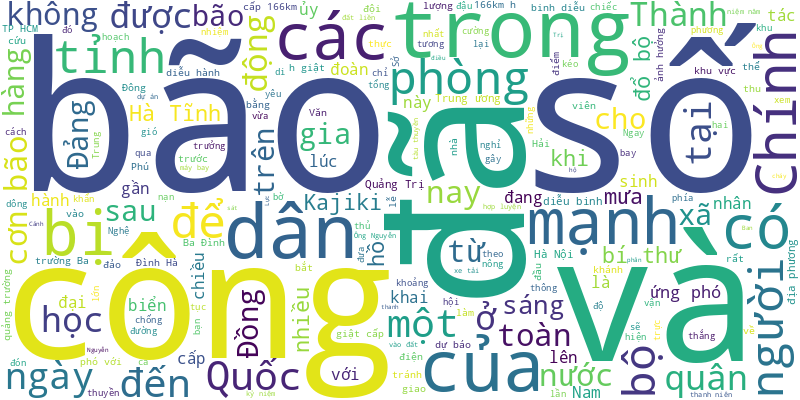
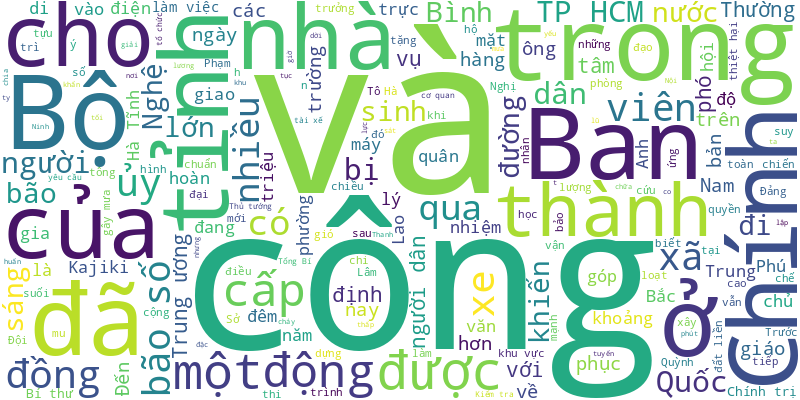
🍀 = 90%

diff --git a/README.md b/README.md
@@ -1,6 +1,16 @@
 # Tuoi Tre RSS 
 
 ## Giáo dục 
+- Nhiều trường học tại Hà Nội đã thông báo cho học sinh ngừng đến trường, sinh viên chuyển sang học trực tuyến.
+- Những ngày đầu của nước Việt Nam độc lập 80 năm trước, giữa bộn bề khó khăn, Chủ tịch Hồ Chí Minh và Chính phủ đã nhìn ra đường dài cho dân tộc cần làm ngay: diệt giặc dốt.
+- Nhiều bạn đọc tiếp tục tranh luận và đề xuất các giải pháp cho chuyện '29 điểm vẫn rớt đại học mong muốn'.
+- Mặc dù cả nước chỉ có 9 thủ khoa đạt điểm tuyệt đối 30/30, nhiều trường đại học lại ghi nhận số thí sinh có điểm xét tuyển 30 nhiều như 'mưa', lý do là... điểm cộng, điểm thưởng.
+- Phụ huynh ở Đắk Lắk than phiền trường tiểu học đổi đồng phục mỗi năm, nhiều màu trong tuần, vừa tốn kém vừa thiếu bản sắc.
+- Theo phản ánh của thí sinh, Trường đại học Ngân hàng TP.HCM thay đổi điều kiện xét tuyển khiến thí sinh dư điểm chuẩn vẫn rớt.
+- Trong 5 năm qua, ngành giáo dục Đắk Lắk ghi nhận có hơn 6.200 sáng kiến với hơn 1.000 giáo viên là giáo viên dạy giỏi, điển hình tiên tiến.
+- Mùa tuyển sinh đại học năm nay, hàng loạt ngành học ghi nhận mức điểm chuẩn chạm ngưỡng 29, 30 - thậm chí vượt cả 30 điểm nếu tính thêm điểm ưu tiên.
+- Sáng 25-8, nhiều trường phổ thông ở TP.HCM đã tổ chức lễ đón học sinh tựu trường, chuẩn bị cho năm học mới 2025-2026.
+- Sáng nay 25-8, học sinh các khối lớp 2, 3, 4, 5, 6, 7, 8, 10, 11 ở TP.HCM tựu trường, chuẩn bị bước vào năm học mới 2025 - 2026 (các khối 1, 9, 12 đã tựu trường trước đó).
 - Việc cộng điểm khuyến khích, quy đổi điểm được đa số trường đại học áp dụng dẫn đến tình trạng điểm thi thấp nhưng điểm chuẩn vẫn tăng vù vù, xô đổ các kỷ lục điểm chuẩn trước đó.
 - Ngày 24-8, gần 100 thí sinh nhí đã hào hứng góp mặt trong vòng casting Đầu Bếp Nhí đợt 2.
 - Tin tức đáng chú ý: Vì sao điểm chuẩn tuyển sinh các ngành y dược, sư phạm lại biến động mạnh?; Bác sĩ cảnh báo vi rút RSV gây bệnh đường hô hấp nguy hiểm ở trẻ nhỏ; Trước 1-1-2026, hoàn thành tổ chức một số đơn vị thuộc Bộ Nông nghiệp và Môi trường.
@@ -41,70 +51,61 @@
 - Điểm chuẩn 2025 của Học viện Bưu chính viễn thông cao nhất là 26,21 với ngành khoa học máy tính.
 - Các trường cao đẳng 'hot' như Cao đẳng Kỹ thuật Cao Thắng, Cao đẳng Kinh tế đối ngoại, Cao đẳng Kinh tế TP.HCM... đã công bố điểm chuẩn trúng tuyển xét theo điểm thi tốt nghiệp THPT.
 - Nhiều ngành của Trường đại học Khoa học tự nhiên (Đại học Quốc gia TP.HCM) lấy điểm chuẩn trên 24, riêng ngành khoa học máy tính lấy gần 30 điểm.
-- Ngành Trung Quốc học tiếp tục dẫn đầu điểm chuẩn Học viện Ngoại giao năm 2025, nhưng đã giảm 3,11 điểm so với năm ngoái ở phương thức xét điểm thi tốt nghiệp THPT.
-- Năm nay các ngành thuộc khối quân đội và sư phạm tiếp tục ghi nhận điểm chuẩn cao kỷ lục, có ngành lấy điểm tuyệt đối 30/30 và phải đặt nguyện vọng 1 mới trúng tuyển.
-- Hai trường đại học 'có tiếng' ở TP.HCM lấy điểm chuẩn với ít nhiều thay đổi so với năm trước đó.
-- Nếu không có điểm ưu tiên, thí sinh cần phải đạt hơn 9,5 điểm mỗi môn mới trúng tuyển ngành báo chí Trường ĐH Khoa học xã hội và Nhân văn - Đại học Quốc gia TP.HCM.
-- Ngày 22-8, Trường đại học Ngân hàng TP.HCM công bố điểm chuẩn trúng tuyển đại học chính quy năm 2025 (xét kết quả thi tốt nghiệp THPT).
-- Năm nay, điểm chuẩn trúng tuyển Trường đại học Y Hà Nội từ dao động 17 - 28,7 điểm, ngành tâm lý học tiếp tục dẫn đầu ở tổ hợp C00 (văn, sử, địa).
-- Trường đại học Sư phạm kỹ thuật TP.HCM vừa công bố điểm chuẩn tuyển sinh đại học chính quy năm 2025.
-- Ngành tâm lý học dẫn đầu điểm chuẩn Trường đại học Khoa học xã hội và Nhân văn (Đại học Quốc gia Hà Nội) với 29 điểm, vượt điểm chuẩn ngành quan hệ công chúng và báo chí so với năm ngoái.
-- Trường đại học Luật Hà Nội dùng tổ hợp D01 (toán, văn, tiếng Anh) làm tổ hợp gốc quy đổi, mức điểm chuẩn từ 19,75 đến 25,55.
-- Đa số ngành 'hot' Trường đại học Bách khoa - Đại học Quốc gia TP.HCM có điểm chuẩn tăng, trái với dự đoán giảm trước đó.
 ![Edu](Edu.png)
 ## Thời Sự 
-- Lúc 9h sáng nay, tâm bão số 5 (bão Kajiki) đang cách Nghệ An khoảng 140km về phía đông đông nam, cách Hà Tĩnh khoảng 120km về phía đông. Sức gió mạnh nhất vùng gần tâm bão mạnh cấp 13-14 (134-166km/h), giật cấp 16.
-- Ông Nguyễn Thanh Nghị - ủy viên Trung ương Đảng, phó bí thư thường trực Thành ủy TP.HCM - được Bộ Chính trị điều động, phân công, bổ nhiệm làm Trưởng Ban Chính sách, chiến lược Trung ương.
-- Lực lượng Cảnh sát phòng cháy chữa cháy và cứu nạn, cứu hộ Công an tỉnh Đắk Lắk đã xuyên đêm giải cứu tài xế mắc kẹt trong cabin sau vụ tai nạn giữa xe tải và xe đầu kéo trên quốc lộ 1.
-- Người đàn ông chạy xe ba gác chở theo chiếc ô tô cũ cồng kềnh bị người dân phản ánh trên mạng xã hội đã bị xử phạt.
-- Trong lúc chằng mái nhà phòng chống bão số 5, một gia đình không may bị điện giật làm một người chết, hai người bị thương.
-- Ông Trần Lưu Quang - Bí thư Trung ương Đảng, Trưởng Ban Chính sách, chiến lược Trung ương - làm Bí thư Thành ủy TP.HCM nhiệm kỳ 2020 - 2025.
-- Ông Nguyễn Văn Nên - ủy viên Bộ Chính trị - được phân công theo dõi, chỉ đạo Đảng bộ TP.HCM cho đến Đại hội XIV của Đảng.
-- Cục Hàng không Việt Nam quyết định tạm dừng khai thác sân bay Thọ Xuân và Đồng Hới trong ngày 25-8 để tránh bão số 5.
-- Lúc 7h sáng nay, tâm bão số 5 (bão Kajiki) đang cách Nghệ An khoảng 160km về phía Đông Đông Nam, cách Hà Tĩnh khoảng 145km về phía Đông. Sức gió mạnh nhất vùng gần tâm bão mạnh cấp 14 (150-166km/h), giật cấp 17.
-- Hôm nay 25-8, dự báo bão số 5 đổ bộ vào đất liền nước ta gây mưa to đến rất to, với thời tiết này cần đề phòng lũ, sạt lở và dông gió dữ dội.
-- Theo thông tin từ Bộ Ngoại giao, nhân kỷ niệm 80 năm thành lập ngành ngoại giao (28-8-1945 - 28-8-2025), Tổng Bí thư Tô Lâm đã có thư chúc mừng.
-- Buổi tổng hợp luyện diễu binh, diễu hành lần 2 cho lễ kỷ niệm 80 năm Quốc khánh 2-9 diễn ra ngày 24-8, tại quảng trường Ba Đình (Hà Nội).
-- Khi bão số 5 đổ bộ, khu vực Nghệ An - bắc Hà Tĩnh khả năng chịu tác động của gió bão mạnh nhất cấp 12-14 (118-166km/h), giật cấp 15-16.
-- Tính đến 17h30 chiều nay 24-8, toàn tỉnh Hà Tĩnh đã sơ tán 3.972 hộ dân với gần 10.000 nhân khẩu đến các địa điểm an toàn để chủ động ứng phó với bão số 5.
-- Đến 19h tối nay, cường độ bão số 5 (Kajiki) đã mạnh lên cấp 14 (150-166km/h), giật cấp 17 và khả năng tiếp tục mạnh lên.
-- Chiều 24-8, gần 400 quân và dân trên đảo Cồn Cỏ (Quảng Trị) đã được di tản vào các hầm trú ẩn an toàn để ứng phó với bão số 5.
-- Chiều 24-8, ông Nguyễn Hoàng Hiệp - thứ trưởng Bộ Nông nghiệp và Môi trường - cùng đoàn công tác của trung ương đã kiểm tra thực tế công tác ứng phó với bão số 5 tại tỉnh Thanh Hóa.
-- Cơn bão số 5 (bão Kajiki) được dự báo là cơn bão mạnh với cấp độ rủi ro thiên tai cấp 4 - mức rất lớn, dự kiến đổ bộ vào đất liền nước ta khoảng trưa, chiều 25-8.
-- Gần 10 điểm mỗi môn vẫn rớt đại học mong muốn; Nút giao An Phú nguy cơ chậm 12 tháng... là những vấn đề thu hút nhiều bạn đọc phản hồi tuần qua.
-- Để học sinh và giáo viên được an toàn trong bão số 5, tỉnh Quảng Trị đã có công văn cho toàn bộ học sinh, học viên nghỉ học từ ngày 25-8.
-- Trong 21 dự án đón APEC 2027 ở Phú Quốc thì có 2 dự án triển khai chậm lại vì liên quan đến quy hoạch là dự án hồ nước Dương Đông 2 và nhà máy xử lý nước hồ này. Sở ngành trong tỉnh đã khẩn trương lập đoàn khảo sát lại vị trí mới làm hồ nước.
-- Du khách lặn biển ở khu vực Hòn Bạc, thuộc vịnh Nha Phu (Khánh Hòa) thấy cảnh tượng cá chết hàng loạt, san hô gãy đổ.
-- Gần 20h30, dàn pháo lễ tại sân vận động quốc gia Mỹ Đình (Hà Nội) đã khai hỏa, bắt đầu buổi tổng hợp luyện lần thứ 2 của các lực lượng vũ trang, quân đội, công an... cho lễ diễu binh, diễu hành mừng đại lễ tại quảng trường Ba Đình.
-- Ngay trước bão số 5, hai người dân tại Quảng Trị chèo thuyền đi đánh cá ở hồ Bàu Sen thì bị chìm thuyền. Một người bơi được vào bờ, người còn lại đã tử vong.
-- Thủ tướng Phạm Minh Chính vừa ký công điện số 144 về việc bảo đảm cắt giảm, đơn giản hóa thủ tục hành chính, điều kiện kinh doanh và thực hiện thủ tục hành chính thông suốt, hiệu quả trong triển khai chính quyền địa phương 2 cấp.
-- Công an xã An Thành (Hải Phòng) đã phát đi thông báo tìm thân nhân của trẻ sơ sinh bị bỏ rơi tại chùa Diên Khánh trên địa bàn.
-- Bão số 5 là một cơn bão rất mạnh, cường độ bão khi ảnh hưởng có thể tương đương với cơn bão số 3 Yagi năm 2024 và mạnh hơn bão số 10 (Doksuri) năm 2017.
-- Thành phố Hải Phòng đã cấm các phương tiện tàu du lịch, tàu, thuyền khai thác thủy sản ra khơi từ 13h ngày 24-8 để phòng chống bão số 5. Trong khi đó, Hà Tĩnh đã đặt Sở Chỉ huy chống bão.
-- Trước diễn biến phức tạp của cơn bão số 5, từ sáng đến trưa 24-8 lượng lượng công an, bộ đội biên phòng, dân quân địa phương đã giúp ngư dân phường Sầm Sơn đưa hàng trăm chiếc thuyền nhỏ lên đường Hồ Xuân Hương tránh trú bão.
-- Trong thời gian ảnh hưởng bởi mưa bão số 5, 67.000 học sinh tại Hà Tĩnh sẽ nghỉ học để đảm bảo an toàn.
-- Sau cơn mưa chiều 24-8, tại khu vực giao cắt đường Chu Văn An - Nguyễn Thái Học - Tôn Đức Thắng, người dân cùng hòa ca bài Nối vòng tay lớn, Như có Bác Hồ trong ngày vui đại thắng, Tiến quân ca… trong lúc chờ đoàn diễu binh.
-- Nhạc sĩ Nguyễn Văn Chung chia sẻ việc thể hiện lòng yêu nước không chỉ bằng đón xem, hưởng ứng các concert quốc gia hay xem diễu binh, diễu hành mà hãy thể hiện bằng chính hành động thiết thực của mình trong tương lai.
-- Bộ Quốc phòng vừa có công điện yêu cầu các đơn vị toàn quân tập trung ứng phó khẩn cấp bão số 5.
-- Lần đầu tiên một bí thư xã ở Đắk Lắk livestream bán sầu riêng cho nông dân và đã thu hút được khá nhiều tương tác.
-- Ứng phó khẩn cấp với bão số 5, nhiều tỉnh, thành của miền Trung đã cấm biển. Trong khi đó, trên những cánh đồng lúa lúc này, nhiều bà con nông dân đang chạy đua thu hoạch để tránh cơn bão được dự đoán rất mạnh này.
-- Dải mây dông trước bão số 5 (Kajiki) bắt đầu vào đất liền, gây mưa dông ở các tỉnh Bắc Ninh, Hưng Yên, Hải Phòng và đang di chuyển và mở rộng sang khu vực thành phố Hà Nội.
-- Ngay từ sáng sớm nay, hàng ngàn người đã xếp hàng, đội nắng, cắm chốt, chọn chỗ đẹp để xem hợp luyện diễu binh, diễu hành kỷ niệm 80 năm Cách mạng tháng Tám và Quốc khánh 2-9.
-- Sáng 24-8, 10 chiếc trực thăng Mi thuộc các Trung đoàn Không quân 916, 917, 930 (Quân chủng Phòng không - Không quân) đã kéo cờ Tổ quốc, cờ Đảng bay qua quảng trường Ba Đình, Hà Nội.
-- Công an xã Phú Lâm, tỉnh Đồng Nai vừa giải cứu một thanh niên bị nhóm lừa đảo gọi điện đe dọa, ‘bắt cóc online’, đòi gia đình nạn nhân chuyển tiền.
-- Chủ tịch nước Lương Cường khẳng định mỗi thắng lợi của dân tộc đều bắt nguồn từ sức mạnh đại đoàn kết, đồng lòng, cống hiến không ngừng nghỉ của các tầng lớp nhân dân dưới sự lãnh đạo của Đảng.
-- Để tránh bờ biển bị sạt lở trước dự báo bão số 5 đổ bộ, chính quyền xã Đan Hải (Hà Tĩnh) đã huy động hàng trăm người tiến hành gia cố bờ biển bằng rọ đá, bao tải cát.
-- Kiểm tra thực tế khu neo đậu tàu thuyền ở xã Nam Cửa Việt, bí thư Tỉnh ủy Quảng Trị yêu cầu địa phương phối hợp chặt chẽ trong công tác ứng phó với bão số 5, sẵn sàng di dời dân, giúp dân thu hoạch mùa vụ ngay sau bão...
-- Dùng Facebook của bạn gái đăng hình và nội dung nói xấu vợ cũ và gia đình vợ, một công dân ở Đồng Nai bị phạt 7,5 triệu đồng.
-- Bạn đọc cho rằng có quá nhiều phương thức tuyển sinh gây mất công bằng, đẩy điểm chuẩn phương thức xét điểm thi tốt nghiệp THPT lên cao chót vót.
-- Do ảnh hưởng bão số 5 (Kajiki), vùng biển An Thới, đặc khu Phú Quốc tỉnh An Giang có gió thổi mạnh, sóng lớn. Các tour ca nô tham quan đảo trong đảo tạm ngưng đón khách ngày 24-8.
-- Hai ngày nay ngư dân Hà Tĩnh và các địa phương lân cận đang gấp rút đưa tàu thuyền vào các khu neo đậu của địa phương để chằng buộc cẩn thận, nhằm giảm thiểu rủi ro khi bão số 5 đổ bộ.
-- Tuần này do ảnh hưởng bão số 5 nên hầu như khắp nơi đều có mưa, sau khi bão tan mưa vẫn duy trì thêm nhiều ngày.
-- Trong lúc đến nhà vận động, sau đó khống chế đưa về trụ sở một nam thanh niên ở Hội An có hành vi chửi bới, đập phá tại nhà riêng, cán bộ công an bị nam thanh niên dùng kéo tấn công bị thương.
-- Sáng 24-8, xe tải thủng bánh đang đậu trên đường Đỗ Mười (phường Tam Bình, TP.HCM) bất ngờ bị xe tải khác tông từ phía sau, lật ngang.
-- Dự báo ngày và đêm nay, bão số 5 (Kajiki) có thể mạnh lên cấp 13-14 (134-166km/h), giật cấp 16. Đây sẽ là một trong những cơn bão mạnh, nguy hiểm nhất sẽ đổ bộ vào Nghệ An đến bắc Quảng Trị.
+- Do ảnh hưởng của bão Kajiki, đêm qua đến sáng nay 26-8, Hà Nội có mưa vừa, mưa to, có nơi mưa rất to khiến nhiều tuyến đường ngập sâu.
+- Đêm 25-8, lực lượng Phòng cảnh sát phòng cháy, chữa cháy và cứu nạn, cứu hộ Công an tỉnh Thanh Hóa đã giải cứu 3 người trong một gia đình sinh sống cạnh suối Chuỗi, xã Sao Vàng bị nước lũ cô lập trong nhà.
+- Trận lốc xoáy trong vòng 2 phút ở Hà Nam cũ (nay là Ninh Bình) tối qua khiến hơn 200 nhà dân bị thiệt hại, trong đó có nhà dân bị đổ sập khiến một người tử vong.
+- Trước nguy cơ bị nước lũ dâng cao chia cắt, chính quyền xã Mường Típ, Nghệ An đã huy động lực lượng di dời khẩn cấp 85 người dân tới nơi an toàn ngay trong đêm.
+- Tin tức đáng chú ý: Thế Giới Di Động chi 200 tỉ đồng mua trọn lô trái phiếu một công ty chứng khoán; Đề xuất tăng 100% lương tập huấn, thi đấu cho huấn luyện viên, vận động viên...
+- Sau khoảng 12 giờ đi vào đất liền Nghệ An - Hà Tĩnh, sáng sớm 26-8, bão số 5 (Kajiki) suy yếu thành áp thấp nhiệt đới và tiếp tục gây mưa lớn cho khu vực Bắc Trung Bộ, Bắc Bộ hôm nay.
+- Dù đã suy yếu nhưng hoàn lưu bão số 5 vẫn gây mưa to cho thời tiết nước ta, đặc biệt là các tỉnh thành phía Bắc.
+- Lốc xoáy lớn đêm 25-8 kéo dài 2 phút, gây thiệt hại nặng cho hàng trăm hộ dân ở phường Lý Thường Kiệt, Kim Bảng, Ninh Bình.
+- Nhiều lãnh đạo cấp sở của tỉnh Lâm Đồng có đơn đề xuất xin thôi việc theo Nghị định 178.
+- Chiều 25-8, Thủ tướng Phạm Minh Chính gặp mặt, tri ân Ban Liên lạc công an chi viện chiến trường miền Nam.
+- Tối 25-8, Bộ Quốc phòng duy trì 346.210 quân, 8.200 phương tiện, gồm 5 máy bay, sẵn sàng ứng phó và khắc phục bão số 5.
+- Trung tâm Quản lý giao thông công cộng TP.HCM thông báo khôi phục, điều chỉnh nhiều tuyến xe buýt phục vụ học sinh, sinh viên.
+- Ngày 25-8, tài xế taxi lạng lách, ép xe tại chân cầu Bình Triệu (phường Hiệp Bình, TP.HCM) bị CSGT mời làm việc và lập biên bản.
+- Đến 0h sáng 26-8, tâm bão số 5 vẫn trên đất liền phía tây khu vực nam Nghệ An - bắc Hà Tĩnh.
+- Ông Lê Văn Thành, ủy viên Ủy ban Kiểm tra Trung ương, được Bộ Chính trị chuẩn y chức danh phó chủ nhiệm Ủy ban Kiểm tra Trung ương.
+- Chủ tịch nước chủ trì làm việc giữa Bộ Chính trị và Ban Thường vụ Tỉnh ủy Điện Biên, Gia Lai góp ý văn kiện, nhân sự đại hội đảng bộ.
+- Trước khi bàn giao cho Đội Công binh 4, Đội Công binh 3 Việt Nam hoàn thành kiểm tra COE của UNISFA, khẳng định chuyên nghiệp và trách nhiệm quốc tế.
+- Tổng Bí thư chủ trì làm việc giữa Bộ Chính trị và Quân ủy Trung ương, góp ý dự thảo văn kiện, nhân sự Đại hội Đảng bộ Quân đội.
+- Đến chiều 25-8, số tiền nhà hảo tâm đóng góp trực tiếp cho ông Ba M., người cưu mang 'vợ nhặt,' khoảng 100 triệu đồng.
+- Thường trực Ban Bí thư Trần Cẩm Tú đã trao quyết định của Bộ Chính trị về điều động, phân công, bổ nhiệm ông Nguyễn Thanh Nghị làm trưởng Ban Chính sách, Chiến lược Trung ương.
+- Thành phố Huế đã hoàn thành mục tiêu xóa nhà tạm, nhà dột nát trên địa bàn với hàng ngàn ngôi nhà được xây mới và sửa chữa.
+- Gác chắn đường ngang đã hạ, đèn đỏ sáng, tín hiệu chuông reo lớn nhưng hai người đi xe máy vẫn chạy tốc độ cao, hất tung dàn chắn ngã xuống đường ray.
+- Trong quá trình đi hỗ trợ bà con chống bão, cán bộ Công an phường Vũng Áng, Hà Tĩnh nhận được yêu cầu giúp đỡ sản phụ đi sinh.
+- Đoạn clip một nhóm cán bộ xã Nhôn Mai, tỉnh Nghệ An lội qua suối chảy cuồn cuộn đưa lần lượt hơn 120 người dân ở bản Phá Mựt vượt suối di dời đến nơi an toàn khiến cộng đồng mạng xúc động và cảm phục.
+- Khi vào gần bờ, bão số 5 (Kajiki) gặp ma sát với địa hình khiến cường độ bão suy giảm hai cấp, từ cấp 14 (150-166km/h) xuống cấp 12 (118-133km/h).
+- Công an tỉnh Đồng Tháp cho biết đang điều tra nguyên nhân cái chết của người đàn ông nằm úp mặt dưới kênh nước công cộng.
+- Ngày 25-8, Bộ Nội vụ tổ chức hội thảo quốc gia chuẩn bị cho Diễn đàn Lao động di cư ASEAN (AFML) lần thứ 18.
+- Đến nay đặc khu Phú Quốc đã dựng hàng rào tôn, san ủi mặt bằng được hơn 161ha để làm đường băng số 2 và công trình phụ trợ mở rộng sân bay Phú Quốc đón APEC 2027.
+- Trong 5 năm qua, ngành giáo dục Đắk Lắk ghi nhận có hơn 6.200 sáng kiến với hơn 1.000 giáo viên là giáo viên dạy giỏi, điển hình tiên tiến.
+- Ban Tổ chức Trung ương đã có định hướng về số lượng cấp phó của cơ quan, tổ chức Trung ương, HĐND, UBND tỉnh, thành.
+- Ban Chỉ đạo của Chính phủ yêu cầu xử lý nghiêm các trường hợp, hành vi trục lợi, vi phạm trong xem xét, giải quyết chính sách, chế độ theo nghị định 178.
+- Ảnh hưởng bởi cơn bão số 5 (Kajiki) gây mưa lớn, gió mạnh ở tỉnh Đắk Lắk những ngày qua khiến nhiều nông dân trồng sầu riêng thấp thỏm lo thiệt hại trong mùa thu hoạch chính vụ.
+- Phát biểu tại lễ kỷ niệm ngày 25-8, Tổng Bí thư Tô Lâm khẳng định sau 80 năm, Ngoại giao Việt Nam đã đạt được nhiều thành tựu, góp phần viết nên bản anh hùng ca vĩ đại của dân tộc.
+- Sở Nông nghiệp và Môi trường TP.HCM vừa có văn bản gửi Sở Tài chính góp ý hồ sơ đề nghị thực hiện dự án đường sắt đô thị nối trung tâm TP.HCM - Cần Giờ của Công ty VinSpeed.
+- Thăm hỏi người dân tránh bão số 5 ở Nghệ An, Phó thủ tướng Trần Hồng Hà động viên người dân yên tâm sinh hoạt tại điểm sơ tán, sau khi bão tan mới về nhà.
+- Tâm bão số 5 đang ở trên đất liền khu vực Hà Tĩnh. Sức gió mạnh nhất cấp 11 (103 - 117km/h), giật cấp 13.
+- Với những công lao to lớn trong lĩnh vực đối ngoại, bà Nguyễn Thị Bình đã được Tổng Bí thư Tô Lâm thay mặt lãnh đạo Đảng và Nhà nước trao tặng danh hiệu Anh hùng Lao động.
+- Thủ tướng Phạm Minh Chính đánh giá trong những năm gần đây, thực hiện đột phá chiến lược về xây dựng, hoàn thiện thể chế, Bộ Tư pháp tiếp tục thể hiện rõ vai trò "kiến tạo phát triển", "người gác cổng pháp lý" của Chính phủ.
+- 'Tặng đồ lót như một lời nhắc nhở các em biết bảo vệ và thêm trân trọng bản thân' - Bùi Thị May chia sẻ về hành trình may đồ lót tặng trẻ vùng cao.
+- Một tài xế xe tải ở xã Ia Phí (Gia Lai) vừa qua dốc túi bồi thường 305 triệu đồng cho 2 hộ nuôi bò vì xe mất thắng tông chết 17 con bò đang lùa đi trên đường liên xã.
+- Cơ quan bảo hiểm xã hội cho biết lịch chi trả lương hưu tháng 9-2025 sẽ thay đổi do trùng với dịp nghỉ lễ Quốc khánh 2-9.
+- Qua làm việc với cơ quan công an, tài xế ô tô lao lên vỉa hè tông hàng loạt xe máy, hất tung người đi đường ở Đà Lạt khai do buồn ngủ.
+- Vị trí đầu tiên của Khu thương mại tự do Đà Nẵng sẽ được “bấm nút” khởi động vào ngày 27-8.
+- Có một gói thầu ở nút giao An Phú bình quân mỗi tháng nhà thầu chỉ thi công được khoảng 618 triệu đồng, tương đương giá trị một cọc khoan nhồi (móng cọc bê tông cốt thép) loại nhỏ.
+- Ngành điện bật chế độ ứng phó khẩn cấp, ứng trực 24/24h và đưa ra loạt khuyến cáo người dân đảm bảo an toàn điện trong mưa bão.
+- Đó là một trong nhiều tiêu chí được UBND tỉnh Đồng Nai yêu cầu chính quyền 95 phường, xã xây dựng mô hình “Chính quyền thân thiện” để phục vụ người dân.
+- Đầu giờ chiều, gió bão đã giật mạnh kèm mưa lớn ở nhiều xã ven biển Quỳnh Phú, Quỳnh Anh, Quỳnh Mai, cách trung tâm tỉnh Nghệ An khoảng 70 - 80km.
+- Xe khách mất lái 'lùa' hàng loạt xe máy, xe đạp điện đang dừng chờ đèn đỏ trên quốc lộ 14, tỉnh Đồng Nai.
+- Sáng nay 25-8, học sinh các khối lớp 2, 3, 4, 5, 6, 7, 8, 10, 11 ở TP.HCM tựu trường, chuẩn bị bước vào năm học mới 2025 - 2026 (các khối 1, 9, 12 đã tựu trường trước đó).
+- Ông Dương Anh Đức - ủy viên Ban Thường vụ, phó trưởng ban thường trực Ban Tuyên giáo và Dân vận Thành ủy TP.HCM - được bổ nhiệm làm Trưởng Ban Tuyên giáo và Dân vận Thành ủy TP.HCM.
 ![New](News.png)
 ## Nhịp sống số 
+- Đơn kiện cáo buộc Apple hạn chế quyền tiếp cận vị trí dẫn đầu trên App Store với các ứng dụng chatbot AI cạnh tranh khác.
 - Nhiều người dùng tin rằng chatbot AI thông minh hơn khi trả lời bằng tiếng Anh. Nhưng liệu đây có phải là sự thật, hay chỉ là tin đồn nảy sinh từ thói quen sử dụng công nghệ?
 - vivo V60 5G sẽ ra mắt vào ngày 26-8-2025 với Hệ thống camera chính ZEISS, Camera Siêu Tele Chân Dung ZEISS và loạt ưu đãi hấp dẫn khi đặt trước lên đến sáu triệu đồng
 - Không chỉ nghe, nhìn, nói, AI giờ đây còn có thể “ngửi mùi”. Công nghệ khứu giác số mở ra ứng dụng từ y tế hơi thở, kiểm định thực phẩm, đến tạo ra những hương nước hoa độc bản chỉ trong vài cú nhấp chuột.
@@ -154,5 +155,4 @@
 - Tội phạm mạng dùng mã QR trong chiêu lừa "quishing" để dụ người dùng truy cập web độc hại, đánh cắp thông tin cá nhân.
 - Các nghiên cứu mới cảnh báo ngành công nghiệp trí tuệ nhân tạo (AI): các mô hình AI không chỉ học điều con người dạy, mà còn có thể tự truyền cho nhau hành vi lệch chuẩn qua những 'tín hiệu ngầm' mà chính con người không biết.
 - Trong khi chờ đợi iPhone 17 chính thức ra mắt, loạt tin đồn gần đây cho thấy Apple có thể trình làng thêm 8 sản phẩm mới vào cuối năm nay.
-- Mạng xã hội đang lan truyền một video bản tin cho biết Chính phủ Nepal ban hành lệnh cấm TikTok từ ngày 17-8-2025. Tuy nhiên qua kiểm chứng, đây là tin giả và video là sản phẩm của trí tuệ nhân tạo (AI).
 ![life](Life.png)
